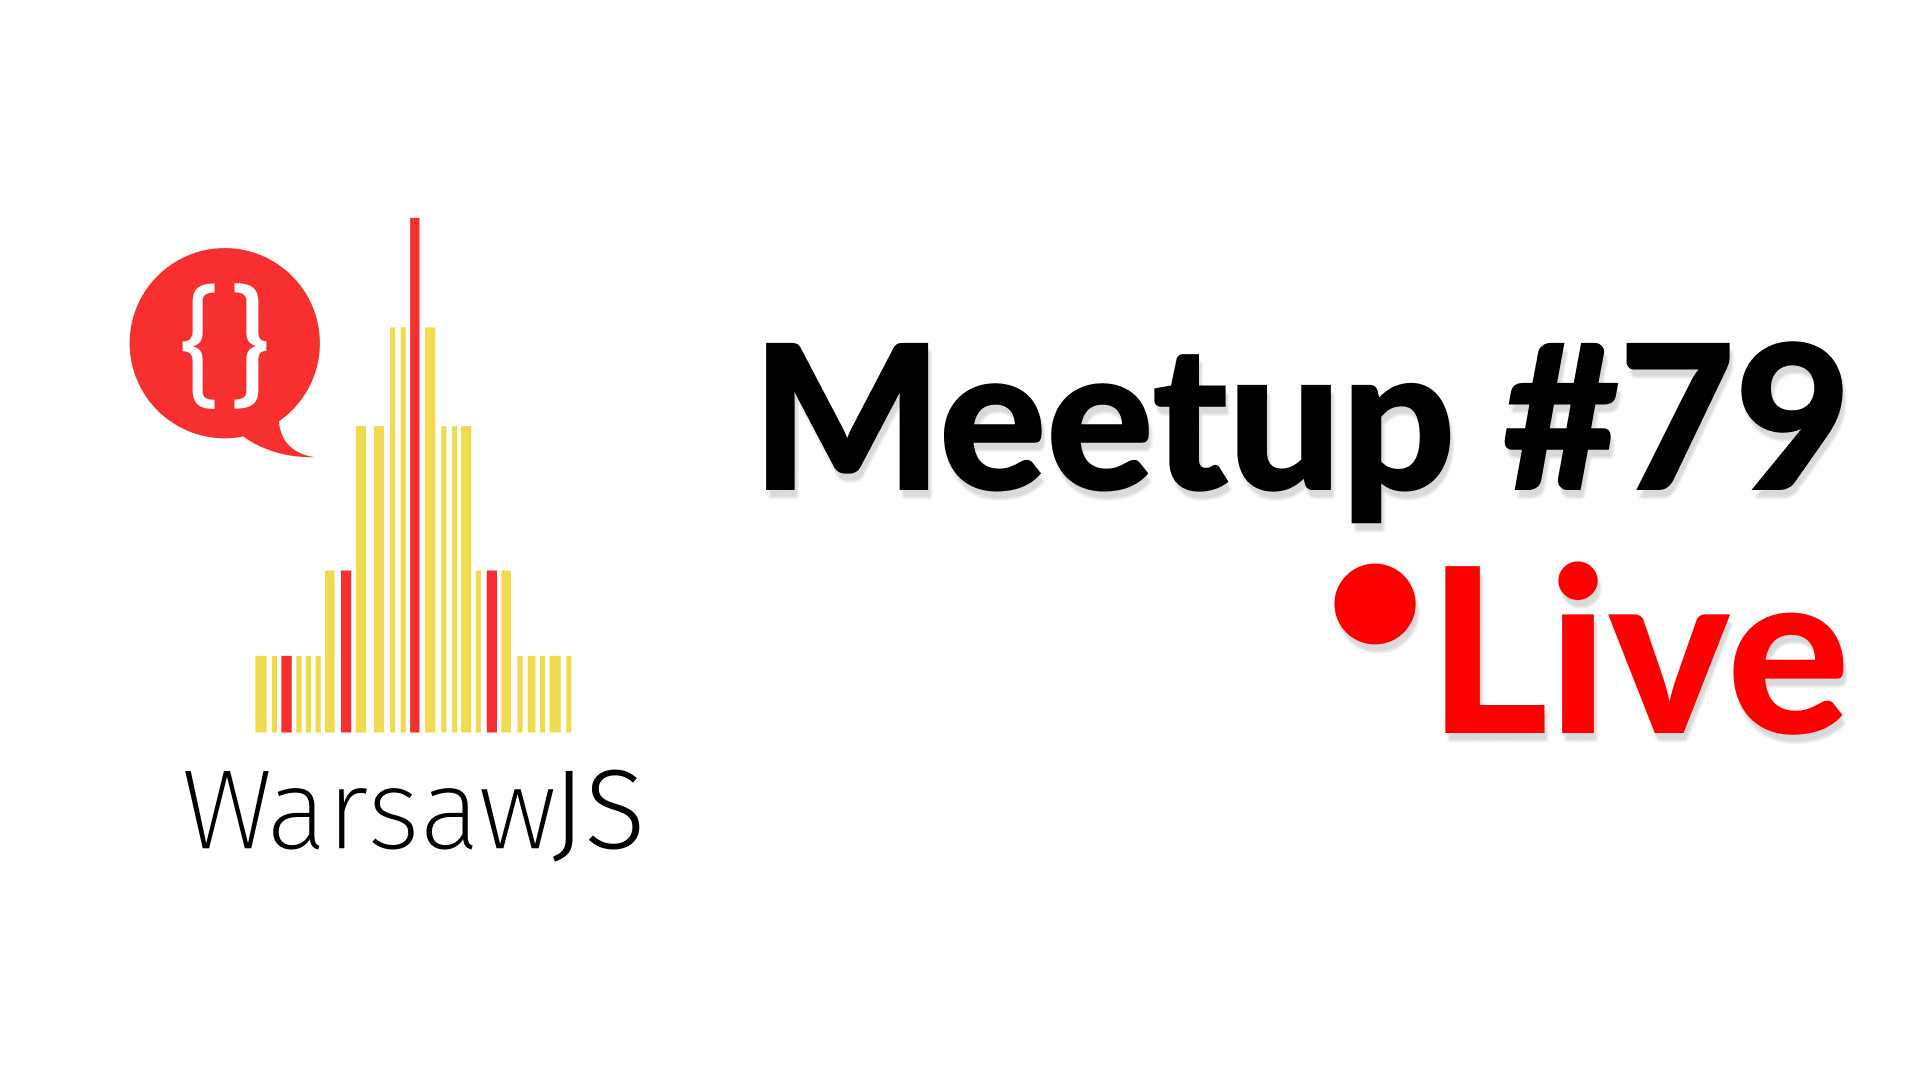
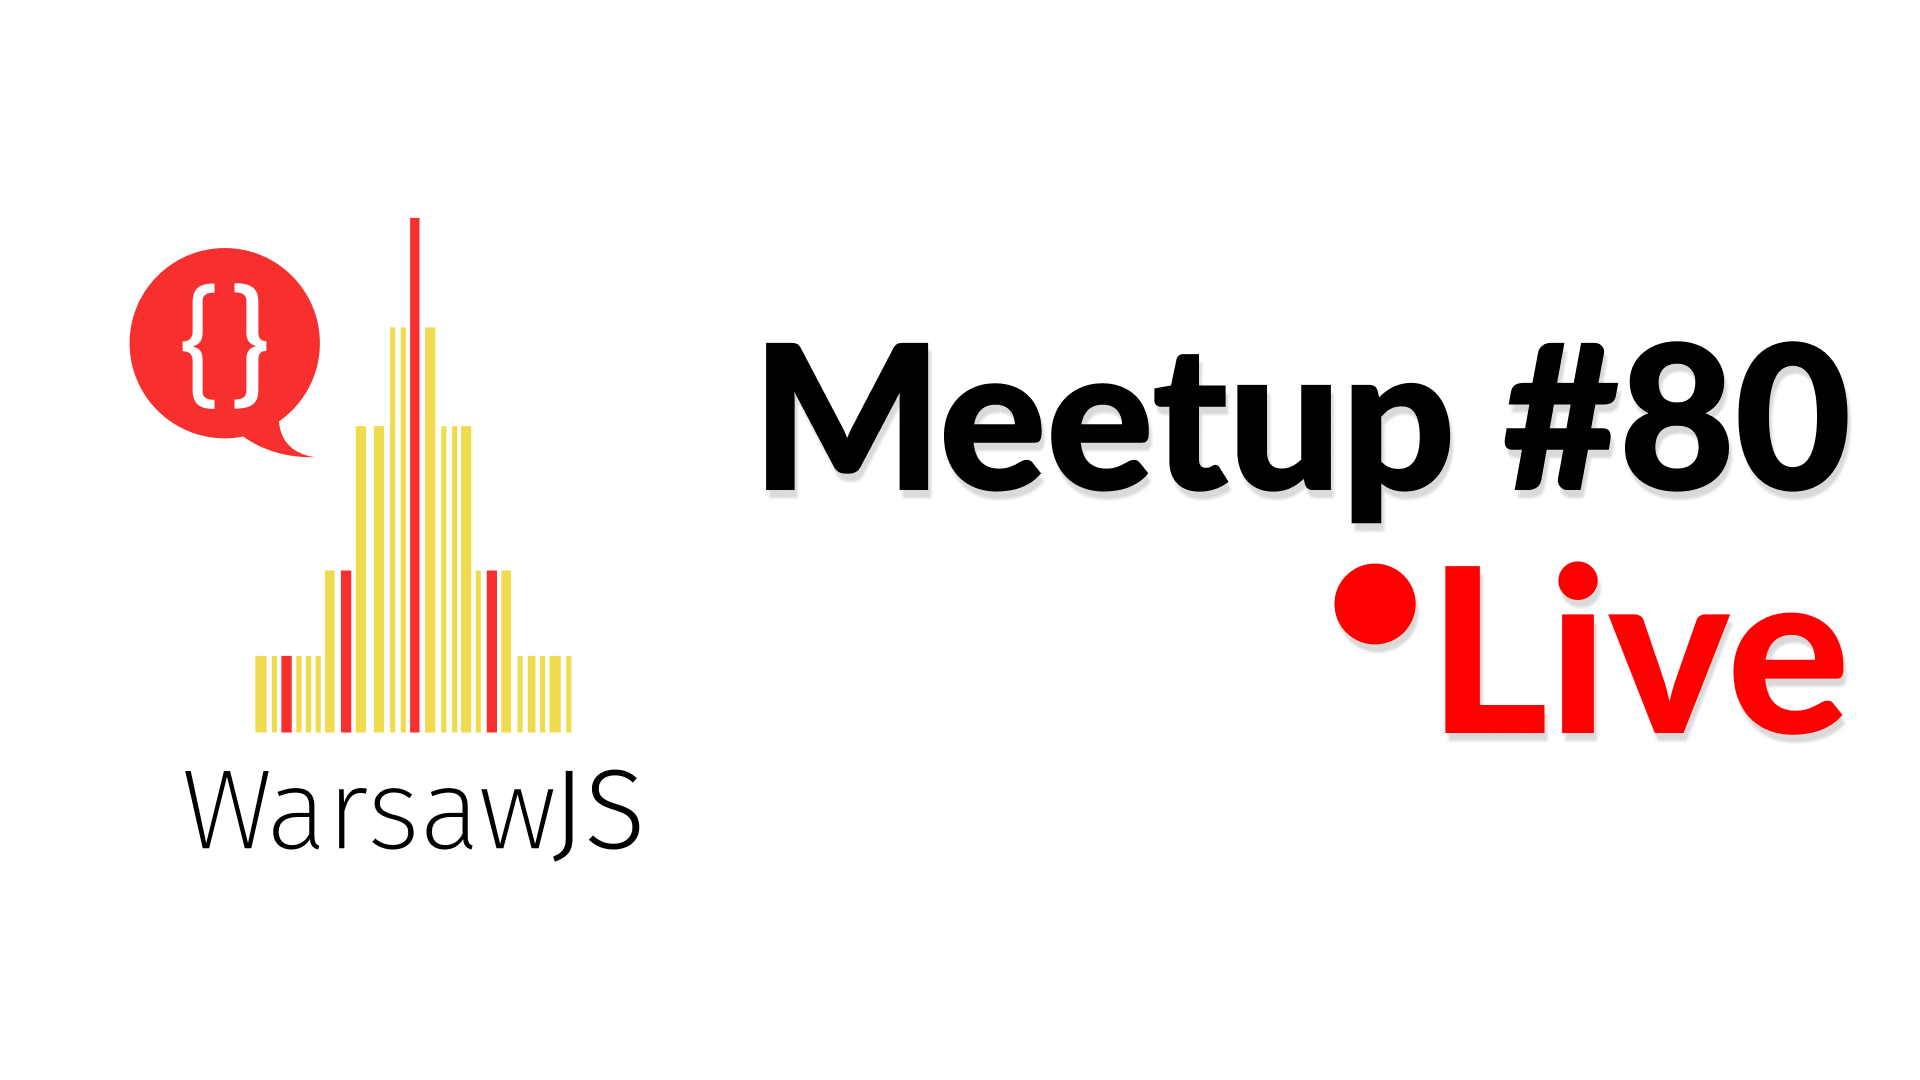
Update slides for 80th Meetup

Changed region(s): [[0.8438, 0.3056, 0.9688, 0.4583]]

diff --git a/index.html b/index.html
@@ -76,18 +76,6 @@
         //-->
     </section>
 
-    <section class="slide">
-        <img class="cover" src="images/misc/mar10.jpg"
-             alt=""/>
-
-        <!--
-        <img
-                src="images/misc/cake.gif"
-                style="width: 240px; position: absolute; top: 28%; left: 50px;"
-                alt=""/>
-        //-->
-    </section>
-
     <section class="slide center slide-card-list" style="padding-top: 40px;">
         <h2 style="font-size: 60px; margin-bottom: 20px;">
             WarsawJS Meetup <em>Organizing Team</em>
@@ -193,19 +181,13 @@
             </li>
             <li>
                 <img
-                    src="https://s3.eu-central-1.amazonaws.com/www.warsawjs.com/static/images/people/lukasz-basaj.jpg"
+                    src="https://s3.eu-central-1.amazonaws.com/www.warsawjs.com/static/images/people/paulina-czubak.jpg"
                     class="avatar"
                     style="border-radius: 50%; width: 170px; margin-bottom: 25px;"
                     alt=""/>
 
                 <p>
-                    Łukasz Basaj
-                </p>
-                <p>
-                    <a href="https://github.com/orgs/warsawjs/people/lukaszbasaj">
-                        <i class="icon icon-github"></i>
-                        <span>lukaszbasaj</span>
-                    </a>
+                    Paulina Czubak
                 </p>
             </li>
         </ul>
@@ -247,7 +229,7 @@
     </section>
 
     <section class="slide">
-        <h1 class="shout">5,681 🙌</h1>
+        <h1 class="shout">5,697 🙌</h1>
 
         <h3 class="shout" style="font-size: 50px; margin-top: 120px;">
             <a href="http://meetup.com/warsawjs">meetup.com/warsawjs</a>
@@ -263,8 +245,8 @@
     </section>
 
     <section class="slide">
-        <img class="cover" src="images/sponsors/Sponsors.jpg"
-             alt="10Clouds, Fresha, Packhelp, Postclick, Prisma, Sumo Logic, Xfaang"/>
+        <img class="cover" src="images/sponsors/Sponsors.png"
+             alt="10Clouds, Allegro Tech, Fresha, Packhelp, Postclick, Prisma, Sumo Logic, Xfaang"/>
     </section>
 
     <section class="slide center slide-card-list" style="padding-top: 40px;">
@@ -294,7 +276,7 @@
     <section class="slide">
         <a href="https://discord.gg/QcC2jRcM">
             <img class="cover" src="images/misc/discord.png"
-                 alt="Discord 10Clouds, Fresha, Packhelp, Postclick, Prisma, Sumo Logic, Xfaang"/>
+                 alt="Discord: 10Clouds, Allegro Tech, Fresha, Packhelp, Postclick, Prisma, Sumo Logic, Xfaang"/>
         </a>   
     </section>
 
@@ -323,17 +305,17 @@
     </section>
 
     <section class="slide">
-        <img class="cover" src="images/sponsors/Sponsors.jpg"
-             alt="10Clouds, Fresha, Packhelp, Postclick, Prisma, Sumo Logic, Xfaang"/>
+        <img class="cover" src="images/sponsors/Sponsors.png"
+             alt="10Clouds, Allegro Tech, Fresha, Packhelp, Postclick, Prisma, Sumo Logic, Xfaang"/>
     </section>
 
-    <section class="slide">
+<!--     <section class="slide">
         <img
             class="cover"
             src="images/misc/next_agenda.png"
             alt="Meetup 80 speakers"
         />
-    </section>
+    </section> -->
 
     <!-- End of slides -->
 
